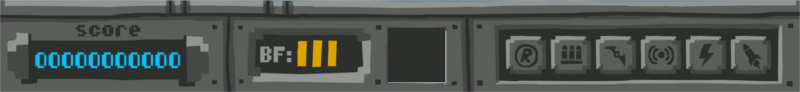
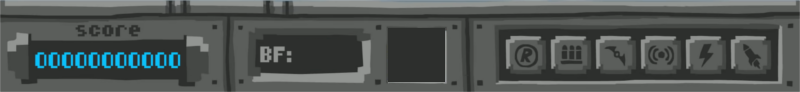
add PoC for the fuel

Changed region(s): [[0.3438, 0.4348, 0.4375, 0.7391]]

diff --git a/batmetal.py b/batmetal.py
@@ -37,6 +37,7 @@ class Player(pygame.sprite.Sprite):
         self.dizzy = 0
         self.mask = pygame.mask.from_surface(self.image)
         self.lives = 2
+        self.fuel = 300
 
     def update(self):
         return True
@@ -137,6 +138,24 @@ def draw_bathead(screen, bathead):
     sprite_w, sprite_h = bathead.get_size()
     screen.blit(bathead, (w - 410, h - sprite_h - 10))
 
+def draw_fuel(screen, sprites, fuel):
+    w, h = pygame.display.get_surface().get_size()
+
+    if fuel >= 250:
+        sprite = sprites[0]
+    elif fuel >= 200:
+        sprite = sprites[1]
+    elif fuel >= 100:
+        sprite = sprites[2]
+    elif fuel >= 50:
+        sprite = sprites[3]
+    else:
+        sprite = sprites[4]
+
+    sprite_w, sprite_h = sprite.get_size()
+    screen.blit(sprite, (w - 505, h - sprite_h - 20))
+
+
 def draw_cannon_fire(fire, screen, y):
     # Maybe do not use magic numbers
     screen.blit(fire, (340, y + 30))
@@ -176,7 +195,14 @@ def main():
     bathead_2 = pygame.image.load("bathead_2.png").convert_alpha()
     bathead_3 = pygame.image.load("bathead_3.png").convert_alpha()
 
+    fuel_1 = pygame.image.load("fuel_1.png").convert_alpha()
+    fuel_2 = pygame.image.load("fuel_2.png").convert_alpha()
+    fuel_3 = pygame.image.load("fuel_3.png").convert_alpha()
+    fuel_4 = pygame.image.load("fuel_4.png").convert_alpha()
+    fuel_5 = pygame.image.load("fuel_5.png").convert_alpha()
+
     lives = [bathead_3, bathead_2, bathead_1]
+    fuel_sprites = [fuel_1, fuel_2, fuel_3, fuel_4, fuel_5]
 
     shoots = pygame.sprite.Group()
     misils = pygame.sprite.Group()
@@ -242,12 +268,13 @@ def main():
 
         draw_bottom_bar(screen, bottom_bar)
         draw_bathead(screen, lives[batmovile.lives])
-
+        draw_fuel(screen, fuel_sprites, batmovile.fuel)
 
         pygame.display.flip()
 
         background_x -= 5
         sky_x -= 1
+        batmovile.fuel -= 1
 
         blocks_hit_list = pygame.sprite.spritecollide(batmovile, cans, True, pygame.sprite.collide_mask)
 
